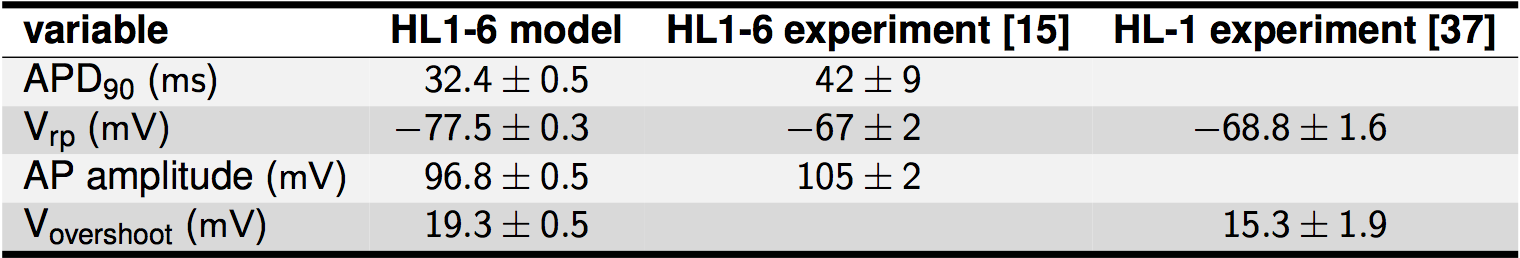
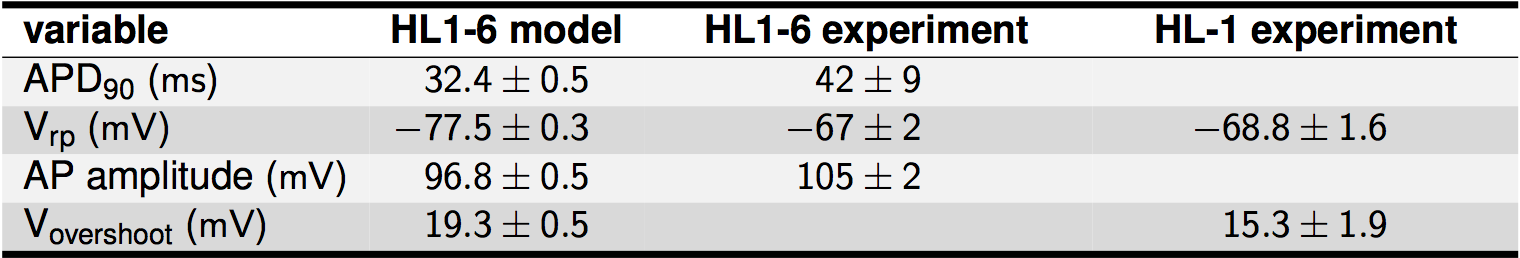
shortening to 10mins and remove references from table

Changed region(s): [[0.4329, 0.031, 0.9895, 0.186]]

diff --git a/index.html b/index.html
@@ -24,7 +24,7 @@
 	<body>
 		<div class="reveal">
 			<div class="slides">
-				<section data-timing=15>
+				<section data-timing=25>
 
 					<h1>
 						Constructing an action potential model: easy as ABC?
@@ -45,7 +45,7 @@
 
 				</section>
 
-				<section data-timing=15 data-background-transition="slide" data-background-color="#000000">
+				<section data-timing=30 data-background-transition="slide" data-background-color="#000000">
 					<video width=65% loop data-autoplay>
 						<source data-src="img/cardiac-model.mp4" />
 					</video>
@@ -57,7 +57,7 @@
 					</aside>
 				</section>
 				
-				<section data-timing=15 data-background-color="#000000" data-background-transition="slide">
+				<!-- <section data-timing=20 data-background-color="#000000" data-background-transition="slide">
 					<video width=65% loop data-autoplay>
 						<source data-src="img/cdt.mp4" />
 					</video>
@@ -65,15 +65,15 @@
 					<aside class="notes">
 						This is a recording of a reentrant circuit in a monolayer of myocytes showing the feature which may drive the arrhythmia at the macro-scale is affected by microscopic mechanisms.
 					</aside>
-				</section>
+				</section> -->
 
-				<section data-timing=30 data-background-transition="slide">
+				<section data-timing=40 data-background-transition="slide">
 					<h2>Towards a discrete-cell modelling framework</h2>
 					<ul>
 						<li>Discrete-cell simulations account for propagation between individual myocytes...</li>
 						<li>...but difficult to validate with biological experiments.</li>
 						<li>HL1-6 subclone have slow conduction velocity which enables validation through optical mapping.</li>
-						<li>First step to discrete-cell model is to construct a mathematical model of action potential of a single cell.</li>
+						<li>First step to discrete-cell model is to construct a mathematical model of action potential of a single HL1-6 cell.</li>
 					</ul>
 
 					<aside class="notes">
@@ -84,7 +84,7 @@
 					</aside>
 				</section>
 
-				<section data=timing=30>
+				<section data=timing=75>
 					<h2>Modelling an action potential</h2>
 					<img style="border:none; background-color:white" class="stretch" data-src="img/equations.svg">
 					<ul>					
@@ -120,12 +120,12 @@
 					<h2 >Aims</h2>
 					<ol>
 						<li style="color:rgb(243,84,38);font-weight:bold;"><span style="color:black;font-weight:normal;">Develop an ABC implementation to estimate parameter posterior distributions for individual ion currents.</span></li>
-						<li style="color:rgb(117,171,31);font-weight:bold;"><span style="color:black;font-weight:normal">Investigate sources of uncertainty and unidentifiability in parameter estimates.</span></li>
-						<li style="color:rgb(27,163,238);font-weight:bold;"><span style="color:black;font-weight:normal">Construct the full action potential model and validate with experimental data.</span></li>
+						<li style="color:rgb(117,171,31);font-weight:bold;"><span style="color:black;font-weight:normal">Investigate sources of uncertainty and unidentifiability in parameters.</span></li>
+						<li style="color:rgb(27,163,238);font-weight:bold;"><span style="color:black;font-weight:normal">Construct and validate the full action potential model.</span></li>
 					</ol>
 				</section>
 
-				<section data-timing=45>
+				<section data-timing=80>
 					<h2>Approximate Bayesian Computation (ABC)</h2>
 					<img style="border:none; box-shadow:none;" class="stretch" data-src="img/abc-smc.svg">
 
@@ -157,59 +157,51 @@
 				</section> -->
 
 				<section>
-					<h2 style="color:rgb(243,84,38); text-align:left">Aim 1:</h2>
+					<h2 style="color:rgb(243,84,38); text-align:left">Aim 1</h2>
 					<!-- <section data-timing=30>
 						<h3>Rapid delayed-rectifier K+ current</h3>
 						<img class="stretch" data-src="img/fig_ikr.svg">
 						<p><small>A = activation, B = tail current</small></p>
-
-
 					</section> -->
 
-					<section data-timing=15>
-						<h2>T-type calcium current</h2>
+					<section data-timing=70>
+						<h2>Parameterising ion currents</h2>
+
+						<ul>
+							<li>ABC outperformed traditional maximum likelihood estimation, and gives uncertainty in simulation output.  </li>
+						</ul>
 						<img class="stretch" data-src="img/fig_icat.svg">
-						<p><small>A = activation, B = inactivation, C = recovery</small></p>
+						<p><small>Example of ABC fitting in T-type Calcium current: A = activation, B = inactivation, C = recovery</small></p>
 
 						<aside class="notes">
 								Addressing the first aim to develop an ABC implementation to estimate parameter distributions, I developed a tool to use input of experimental data from publications and an ion current formulation from previous models and produce output of parameter posterior distributions.
-								This graph gives a representative example of output from the process.
+								This figure gives a representative example of output from the process for one of the calcium channels.
 								The three graphs show results from the three standard patch clamp protocols used in this fitting - activation, inactivation and recovery.
-								Green circles are the published experimental data points, the red dashed line is the original parameter settings for the equations from a model that happened to be fit to the same data, and the blue line and shaded area represent the distribution of results from the ABC posterior.
-
-
-								<!-- Here are a few examples for different channels identified in HL1-6 myocytes.
-								So here are the results for one of the K+ currents in the model.
-								Lack of data for this channel specific to our subclone meant we used data for the original HL-1 cell line which should be a close approximation but is indeed a significant limitation of the project.
-								We compare the results from ABC, with uncertainties shown by one standard deviation, to the experimental fitting data and the original formulation from a published model also fit to the same data.
-								ABC actually improves the fit to the experimental data and appears to have little uncertainty. -->
+								Green circles are the published experimental data points, the red dashed line is the original parameter settings for the equations from a model that happened to be fit to the same data, and the blue line and shaded area represent the distribution of results from the ABC posterior, with the shaded area showing one standard deviation.
+								Comparing with the original point estimates, we see that ABC actually improves the fit compared to the original parameters.
+								The posterior distribution is relatively narrow in activation and inactivation but wider for the recovery data.
+								This implies that there is higher uncertainty associated with contraining parameters to these data.
 						</aside>
-						<!-- <aside class="notes">
-							A slightly different result is given by the T-type calcium current where we also include available recovery patch clamp protocol data.
-							In this case, we see again the ABC approach improves the fit on the original formulation,particularly in activation.
-							However, we can also note that the formulation appears to struggle to fit the recovery data, indicated by the widening distribution in this plot. 
-							The original formulation was not fit to this data at all, and this may indicate the reason why.
-						</aside> -->
 					</section>
 
-					<section data-timing=15>
+					<!-- <section data-timing=60>
 						<h2>Fast Na+ current</h2>
 						<img class="stretch" data-src="img/fig_ina.svg">
 						<p><small>A = activation, B = inactivation</small></p>
 
 						<aside class="notes">
-							Finally, this is the fast sodium channel which is a critical component in the action potential.
+							This is the fast sodium channel which is a critical component in the action potential.
 							There is small uncertainty in the output of the simulation but it appears to struggle to fit to the threshold voltage of the current, which may indicate a deficiency in the formulation itself to model this reduced current.
 
 							From all of these results, it appears from the small distributions in the output that the parameters in the channel equations have been well contrained.
 							However, these plots are only looking at the simulation output from a specific experiment, rather than the underlying steady-state and time constant variables in the ODEs themselves which manifest to this behaviour.
 						</aside>
 
-					</section>
+					</section> -->
 				</section>
 
 				<section>
-					<h2 style="color:rgb(117,171,31); text-align:left">Aim 2:</h2>
+					<h2 style="color:rgb(117,171,31); text-align:left">Aim 2</h2>
 					<section data-timing=60>
 						<h2>Underlying variables</h2>
 						<ul><li>ABC could not constrain time constant curves with standard protocol patch clamp data.</li></ul>
@@ -224,31 +216,29 @@
 						</aside>
 					</section>
 
-					<section data-timing=30>
+					<!-- <section data-timing=30>
 						<h2>Identifiability analysis</h2>
 						<ul>
 							<li>Distributions almost unchanged from uniform prior.</li>
 							<li>Suggests practical unidentifiability.</li>
 						</ul>
 						<img class="stretch" data-src="img/cov_ikur.png">
-					</section>
-
-					<aside class="notes">
-						This is confirmed by looking at the distributions of these time constant parameters.
-						While we would expect a peak in the histograms, we see that they retain an approximately uniform distribution and there is little to no correlation between the variables.
-						These features all suggest practical unidentifiability, which results from a lack of appropriate fitting data.
-						It is instructive to mention here that this unidentifiability does not indicate ABC is an inferior fitting process to standard point estimation techniques, but rather its output includes additional information that can highlight these issues that would otherwise be missed. And is ultimately critical if we are to reproduce faithfully biological observations using these computer models.
+						<aside class="notes">
+							This is confirmed by looking at the distributions of these time constant parameters.
+							While we would expect a peak in the histograms, we see that they retain an approximately uniform distribution and there is little to no correlation between the variables.
+							These features all suggest practical unidentifiability, which results from a lack of appropriate fitting data.
+							It is instructive to mention here that this unidentifiability does not indicate ABC is an inferior fitting process to standard point estimation techniques, but rather its output includes additional information that can highlight these issues that would otherwise be missed. And is ultimately critical if we are to reproduce faithfully biological observations using these computer models.
+						</aside>
+					</section> -->
 				</section>
 
-				
-
-
 				<section >
-					<h2 style="color:rgb(27,163,238); text-align:left">Aim 3:</h2>
-					<section data-timing=30>
+					<h2 style="color:rgb(27,163,238); text-align:left">Aim 3</h2>
+					<section data-timing=60>
 						<h2>Full action potential model</h2>
 						<ul>
-							<li>Automaticity in 56% of runs with mean firing rate 4.9Hz (SD=2.0Hz) is comparable to experiments.</li>
+							<li>Automaticity in 56% of runs with mean firing rate 4.9Hz (SD=2.0Hz).</li>
+							<li>Comparable qualitative action potential and Calcium transients.</li>
 						</ul>
 						<img class="stretch" data-src="img/fig_APsample.svg">
 
@@ -263,10 +253,10 @@
 
 
 
-					<section data-timing=30>
+					<section data-timing=80>
 						<h2>Uncertainty quantification</h2>
 						<img class="stretch" data-src="img/AP-uncert.png">
-						<img style="border: none;" width="65%" data-src="img/results-table.png">
+						<img style="border: none;" width="63%" data-src="img/results-table.png">
 
 						<aside class="notes">
 							A significant advantage of ABC is we can propagate the uncerainty in each parameter up to the macro behaviour of the channel.
@@ -277,12 +267,12 @@
 							The reduced APD could be due to the fact calcium dynamics were unchanged from the original mouse ventricular cell model, and in that work they also noted a reduced APD compared to experiments.
 						</aside>
 					</section>
-
 				</section>
+
 				<section data-timing=30>
 					<h2>Conclusions</h2>
 					<ol>
-						<li style="color:rgb(243,84,38);font-weight:bold;"><span style="color:black;font-weight:normal;">ABC is an effective approach to infer model parameters while accounting for uncertainties.</span></li>
+						<li style="color:rgb(243,84,38);font-weight:bold;"><span style="color:black;font-weight:normal;">ABC is an effective approach to infer model parameters while accounting for uncertainties and/or unidentifiabilities.</span></li>
 						<li style="color:rgb(117,171,31);font-weight:bold;"><span style="color:black;font-weight:normal">Standard protocol voltage patch clamp data is not sufficient to completely constrain time constant parameters.</span></li>
 						<li style="color:rgb(27,163,238);font-weight:bold;"><span style="color:black;font-weight:normal">The full action potential model reproduces qualitative and quantitative characteristics of the HL1-6 myocyte.</span></li>
 					</ol>
